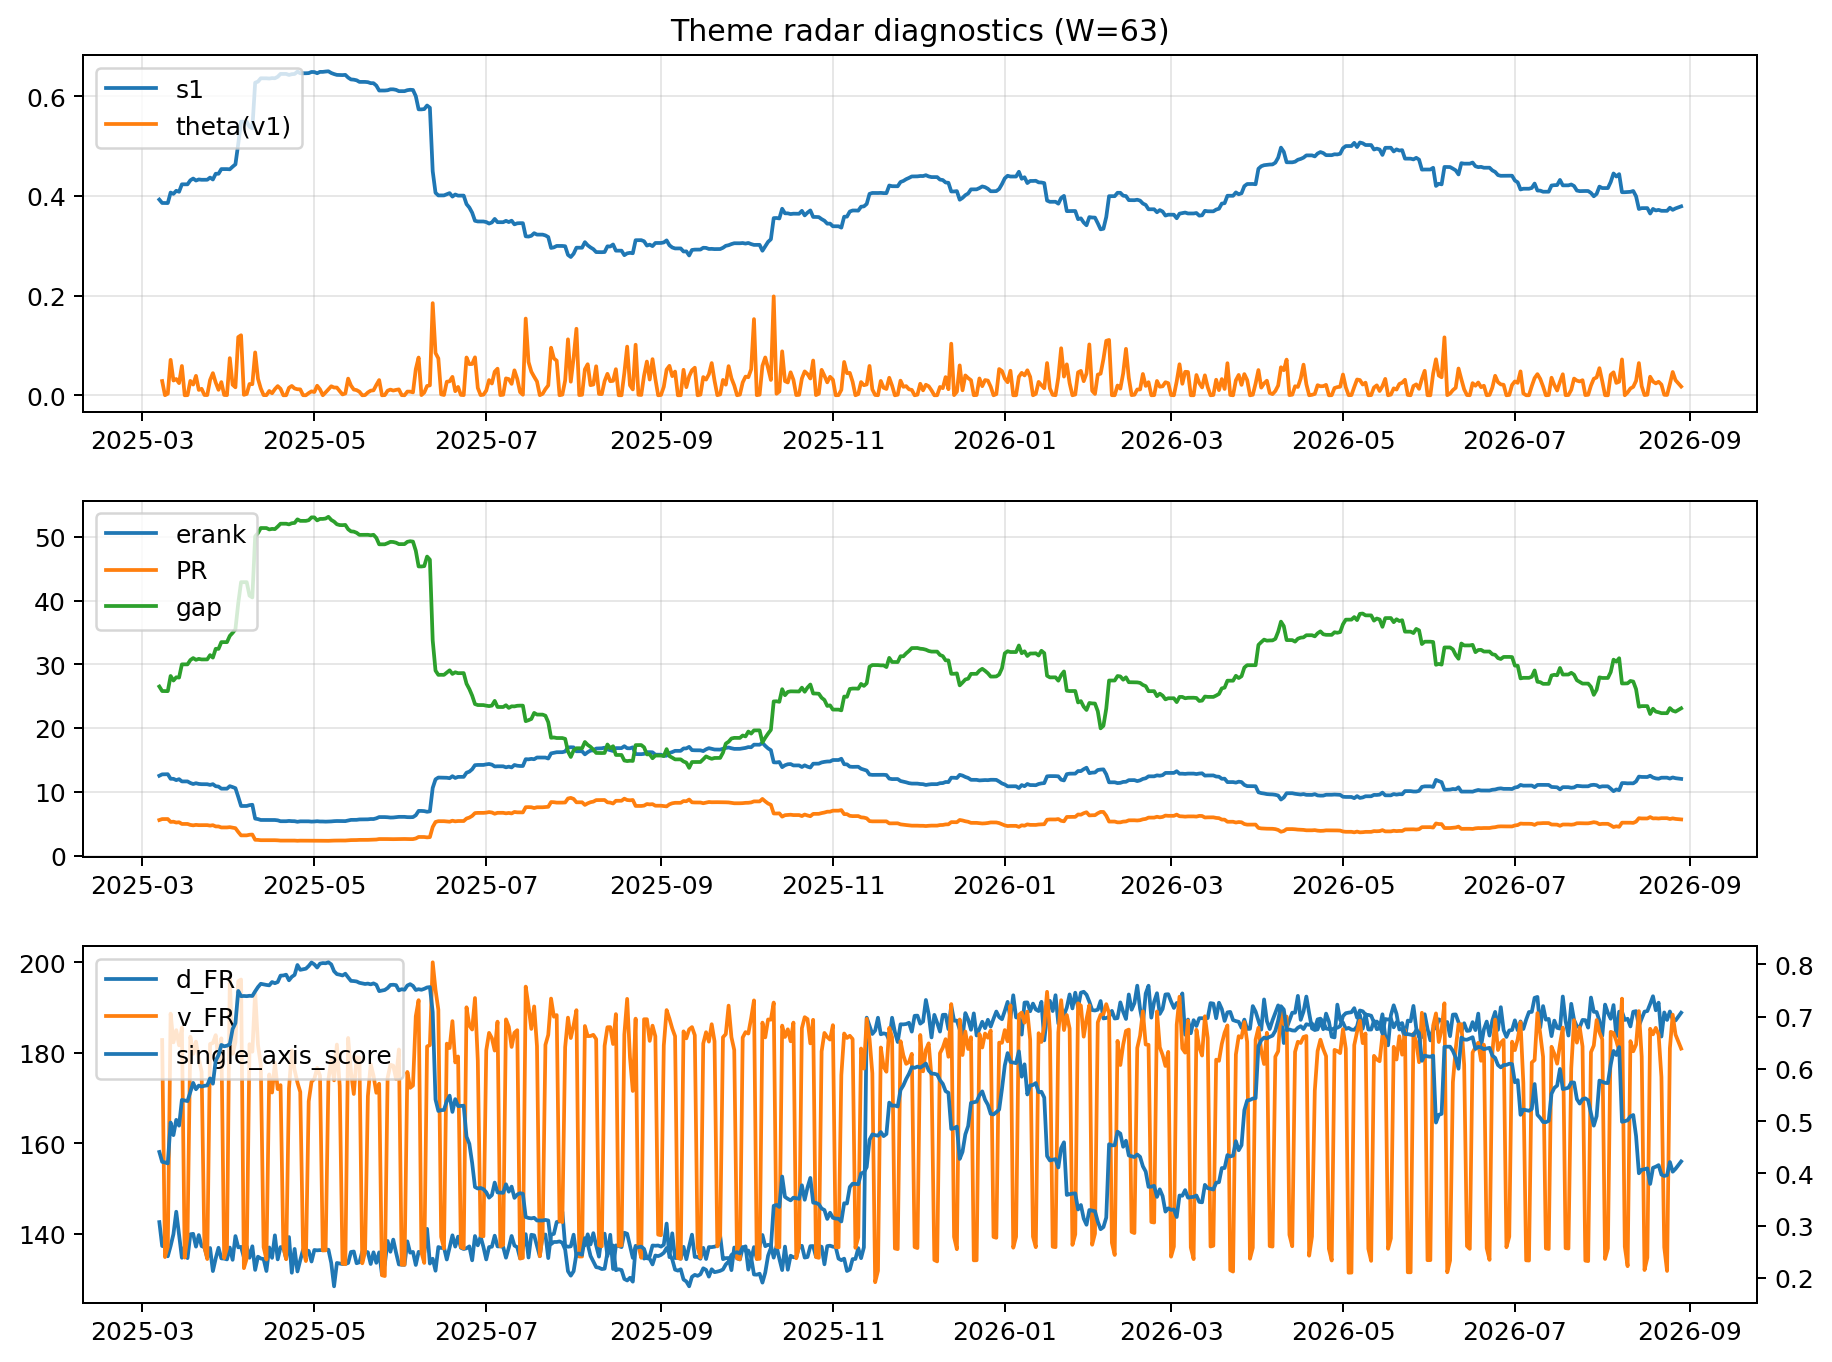
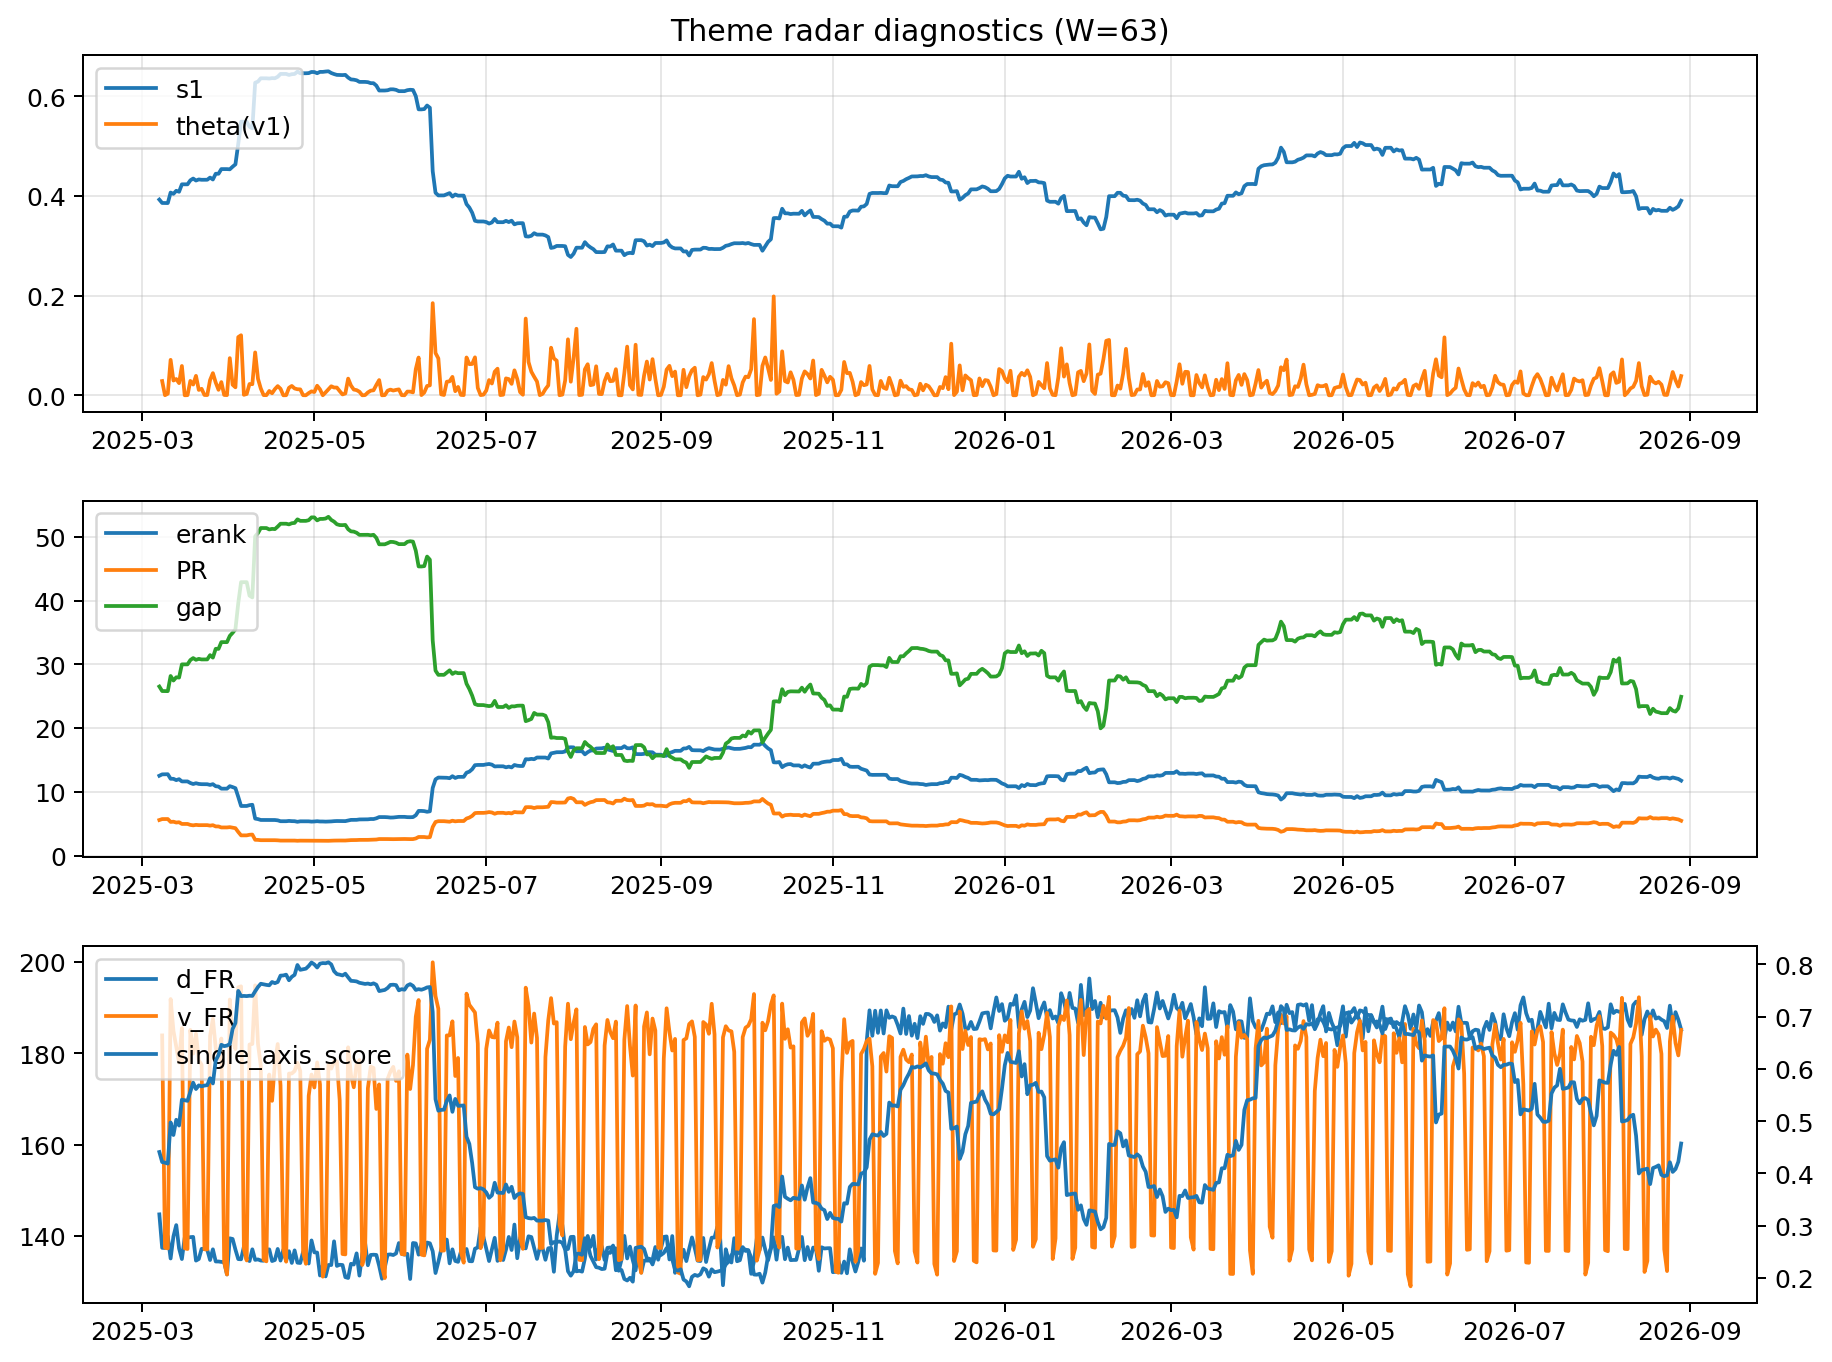
log: 2026-08-29 | sha256:6878a3e864bac1ae5e1dfb0ca08b39ecf43c445e70791b340cc75de1f37edd15

Changed region(s): [[0.0933, 0.7093, 0.9334, 0.9559], [0.6845, 0.8943, 0.7156, 0.9251], [0.0933, 0.7401, 0.1245, 0.7709]]

diff --git a/logs/2026-08-29.md b/logs/2026-08-29.md
@@ -3,52 +3,52 @@
 ![diagnostic W63](../assets/diagnostic/2026-08-29_W63.png)
 
 ## Leaders (v1) — W=63
-- **Nuclear_Uranium** (0.0930188250423266)
-- Semis (0.0738621847575701)
-- Quantum (0.0661690907459508)
+- **Nuclear_Uranium** (0.0916365371513094)
+- Semis (0.0727998092165459)
+- Quantum (0.0653986569570742)
 
 ## Challengers — W=63
-**v2:** Rates (0.0908238736864558), Genomics_Bio (0.0882491955053839), Semis (0.074652183573992)
-**v3:** Software_Cloud (0.0834362620173277), Metals (0.0833720129942213), Crypto (0.0681576018493299)
+**v2:** Rates (0.0910932544024732), Genomics_Bio (0.0861504369592277), Crypto (0.0770321949667513)
+**v3:** Software_Cloud (0.0859580318384379), Metals (0.0749932579803994), MegaCap_AI (0.0625760060528244)
 
 ## Migration (20D slope) — W=63
 **Top risers:**
-- axis_Space: 0.0004468899781954
-- axis_Quantum: 0.0004068787604909
-- axis_Nuclear_Uranium: 0.0002842410463012
-- axis_Semis: 0.000142328290807
-- axis_Clean_Broad: 0.0001418337344931
-- axis_Drones_Autonomy: 0.0001333007430751
-- axis_Robotics: 9.506657491297996e-05
-- axis_Equity_US: 9.350187992872766e-05
-- axis_Sector_Utilities: 9.193531535207398e-05
-- axis_Equity_ExUS: 8.078062716172674e-05
+- axis_Space: 0.0004367325758295
+- axis_Quantum: 0.0003474197292244
+- axis_Nuclear_Uranium: 0.0002566631941558
+- axis_Drones_Autonomy: 0.0001465488334162
+- axis_Clean_Broad: 0.0001208976633117
+- axis_Genomics_Bio: 8.698526659707607e-05
+- axis_Sector_Utilities: 8.150257274156616e-05
+- axis_Semis: 8.108405047382077e-05
+- axis_DataCenter_Infra: 7.804915113796596e-05
+- axis_USD: 7.332433416955767e-05
 
 **Top fallers:**
-- axis_Sector_Comm: -9.70054351383766e-05
-- axis_Software_Cloud: -0.000105222031006
-- axis_Sector_Materials: -0.0001198856643706
-- axis_Credit: -0.0001258933556607
-- axis_Sector_ConsDisc: -0.0001329976903619
-- axis_MegaCap_AI: -0.000146614675889
-- axis_Cyber: -0.0001529838750021
-- axis_Metals: -0.0002194305713921
-- axis_Rates: -0.0004554091261207
-- axis_Crypto: -0.0004656274973944
+- axis_Miners: -8.137374106519987e-05
+- axis_Sector_Comm: -8.202312664289997e-05
+- axis_Cyber: -0.0001029934560895
+- axis_Credit: -0.0001044617849385
+- axis_Sector_Materials: -0.0001095812423583
+- axis_Sector_ConsDisc: -0.0001323377456553
+- axis_MegaCap_AI: -0.00015991334496
+- axis_Metals: -0.0002084478876804
+- axis_Rates: -0.0003232636213894
+- axis_Crypto: -0.0004689534759791
 
 ## Risk line (W=63)
-- s1: 0.3789869834621342
-- theta_v1: 0.0175610147939722
-- v_FR: 180.93197521988336
-- single_axis_score: 0.4229629629629629
+- s1: 0.3902933594769782
+- theta_v1: 0.0385429284169835
+- v_FR: 185.12233133399667
+- single_axis_score: 0.4573012939001849
 
 ## Interpretation
 **Regime:** `theme_migration`
 
-- Action: Tomorrow watchlist: Space, Quantum, Nuclear_Uranium, Semis, Clean_Broad + v2_top1=Rates
+- Action: Tomorrow watchlist: Space, Quantum, Nuclear_Uranium, Drones_Autonomy, Clean_Broad + v2_top1=Rates
 - Action: Hedge note: normal correlation stability.
 
-- Percentiles (W=63 history): vfr_pct=0.50, theta_pct=0.46, s1_pct=0.36, score_pct=0.38.
+- Percentiles (W=63 history): vfr_pct=0.78, theta_pct=0.78, s1_pct=0.39, score_pct=0.42.
 
 ---
[2 lines of base64/hex data omitted]
